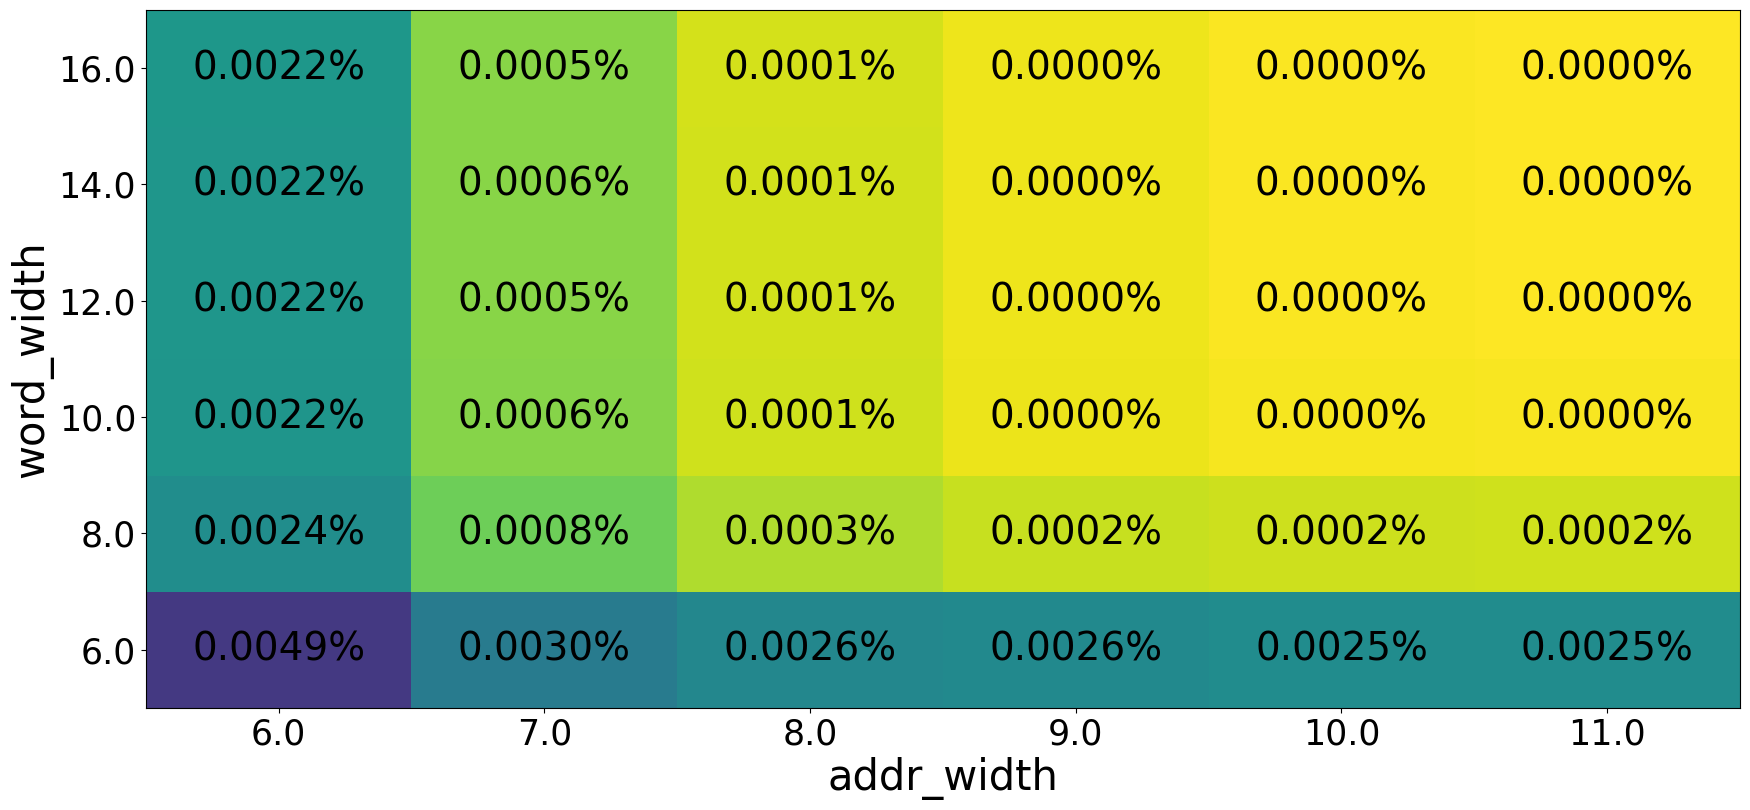
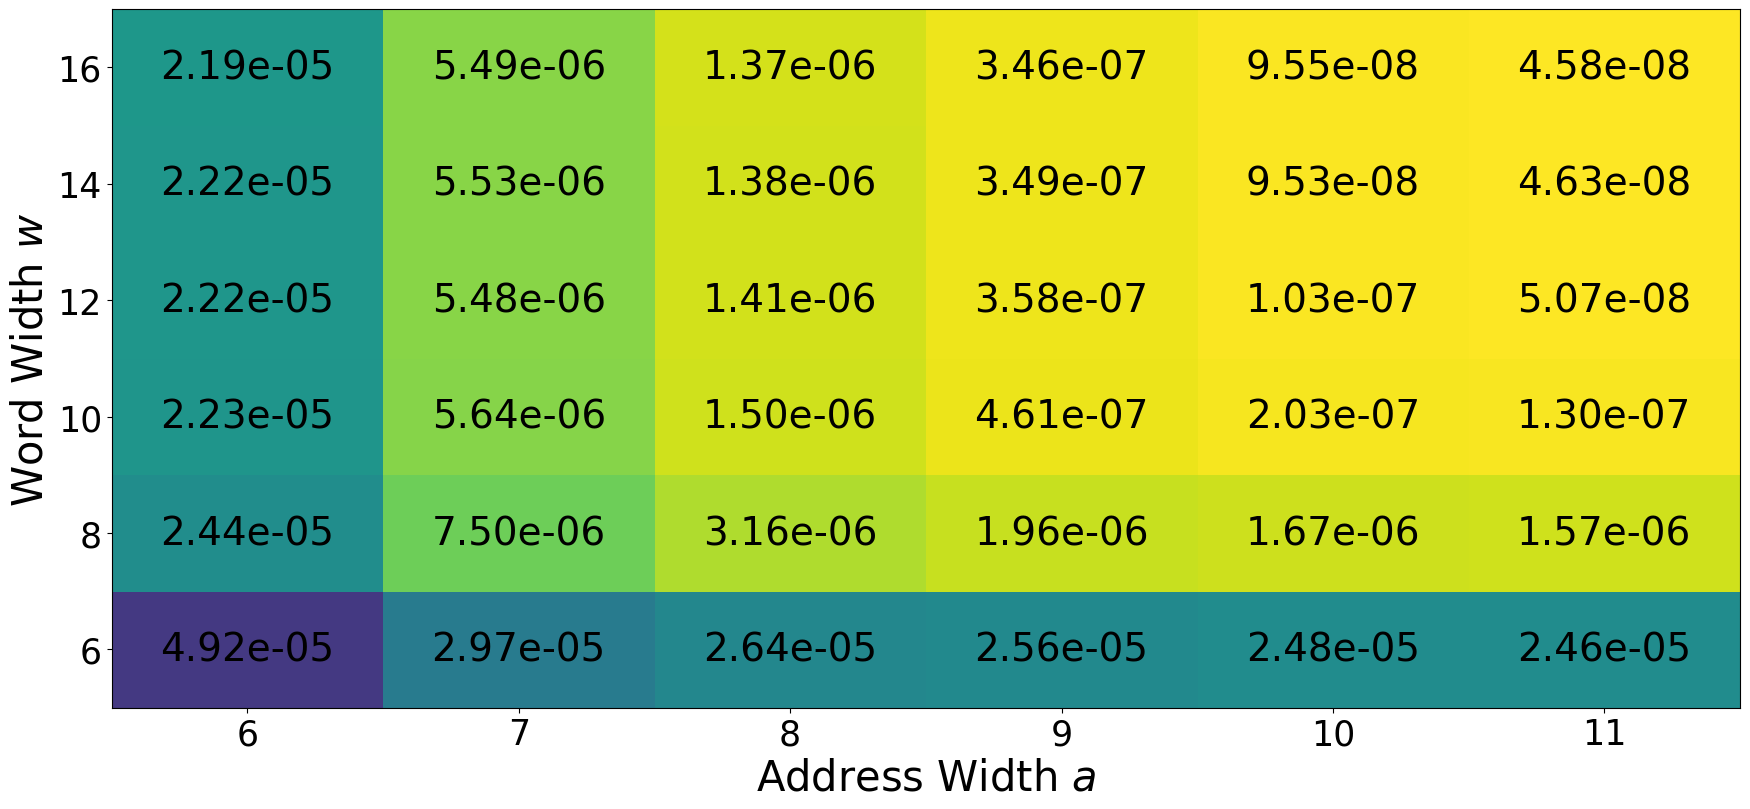
m

diff --git a/evaluation/rec/lookup/scripts/plot.py b/evaluation/rec/lookup/scripts/plot.py
@@ -80,8 +80,13 @@ def plot_heatmap(filepath, output_path=None, title=None, xlabel="x", ylabel="y",
 	ax.set_xticks(np.arange(len(x_vals)))
 	ax.set_yticks(np.arange(len(y_vals)))
 
-	ax.set_xticklabels([v for v in x_vals], fontsize=fontsize_ticks)
-	ax.set_yticklabels([v for v in y_vals], fontsize=fontsize_ticks)
+	# addr_width / word_width are whole numbers; render them as integers so the
+	# ticks read "6, 7, ..." rather than matplotlib's default float "6.0, 7.0".
+	def _tick(v):
+		return str(int(v)) if float(v).is_integer() else str(v)
+
+	ax.set_xticklabels([_tick(v) for v in x_vals], fontsize=fontsize_ticks)
+	ax.set_yticklabels([_tick(v) for v in y_vals], fontsize=fontsize_ticks)
 	ax.set_xlabel(xlabel, fontsize=fontsize_labels)
 	ax.set_ylabel(ylabel, fontsize=fontsize_labels)
 
@@ -130,8 +135,8 @@ IMAGES_DIR = PROJECT_ROOT / "images"
 #                   -> LUT is column 8
 #   accuracy.csv  : num_newton_steps, addr_width, word_width, C, RMSRE, max_rel_error
 #                   -> RMSRE is column 4
-XLABEL = "addr_width"
-YLABEL = "word_width"
+XLABEL = "Address Width $a$"
+YLABEL = "Word Width $w$"
 X_COL_IDX = 1
 Y_COL_IDX = 2
 VALUE_IDX = 3
@@ -150,8 +155,8 @@ if __name__ == '__main__':
 	# Plot resources: LUT usage over the (addr_width, word_width) grid, one figure
 	# per num_newton_steps so the three sweeps present in resources.csv do not
 	# overwrite each other in the same cells.
-	XLABEL = "addr_width"
-	YLABEL = "word_width"
+	XLABEL = "Address Width $a$"
+	YLABEL = "Word Width $w$"
 	X_COL_IDX = 1			# addr_width
 	Y_COL_IDX = 2			# word_width
 	VALUE_IDX = 8			# LUT column (resources.csv 13-column schema)
@@ -170,15 +175,15 @@ if __name__ == '__main__':
 
 	# Plot accuracy: RMSRE over the (addr_width, word_width) grid, one figure per
 	# num_newton_steps so the three sweeps present in accuracy.csv do not
-	# overwrite each other in the same cells. Labels show RMSRE as a percentage
-	# with 4 decimals.
-	XLABEL = "addr_width"
-	YLABEL = "word_width"
+	# overwrite each other in the same cells. Labels show the raw RMSRE in
+	# scientific notation with 3 significant figures.
+	XLABEL = "Address Width $a$"
+	YLABEL = "Word Width $w$"
 	X_COL_IDX = 1			# addr_width
 	Y_COL_IDX = 2			# word_width
 	VALUE_IDX = 4			# RMSRE column (accuracy.csv, after the C column at idx 3)
-	VALUE_FACTOR = 100
-	DATATYPE = "percent"
+	VALUE_FACTOR = 1
+	DATATYPE = "sci"
 	FILTER_COL = 0			# num_newton_steps column
 	for FILTER_VAL in NEWTON_STEPS:
 		plot_heatmap(

diff --git a/evaluation/rsqrt/lookup/scripts/plot.py b/evaluation/rsqrt/lookup/scripts/plot.py
@@ -75,8 +75,13 @@ def plot_heatmap(filepath, output_path=None, title=None, xlabel="x", ylabel="y",
 	ax.set_xticks(np.arange(len(x_vals)))
 	ax.set_yticks(np.arange(len(y_vals)))
 
-	ax.set_xticklabels([v for v in x_vals], fontsize=fontsize_ticks)
-	ax.set_yticklabels([v for v in y_vals], fontsize=fontsize_ticks)
+	# addr_width / word_width are whole numbers; render them as integers so the
+	# ticks read "6, 7, ..." rather than matplotlib's default float "6.0, 7.0".
+	def _tick(v):
+		return str(int(v)) if float(v).is_integer() else str(v)
+
+	ax.set_xticklabels([_tick(v) for v in x_vals], fontsize=fontsize_ticks)
+	ax.set_yticklabels([_tick(v) for v in y_vals], fontsize=fontsize_ticks)
 	ax.set_xlabel(xlabel, fontsize=fontsize_labels)
 	ax.set_ylabel(ylabel, fontsize=fontsize_labels)
 
@@ -120,8 +125,8 @@ IMAGES_DIR = PROJECT_ROOT / "images"
 # Column layout of the CSVs consumed below (0-based indices):
 #   resources.csv : num_newton_steps, addr_width, word_width, REG, LUT, DSP, BRAM, URAM
 #   accuracy.csv  : num_newton_steps, addr_width, word_width, RMSRE, max_rel_error
-XLABEL = "addr_width"
-YLABEL = "word_width"
+XLABEL = "Address Width $a$"
+YLABEL = "Word Width $w$"
 X_COL_IDX = 1
 Y_COL_IDX = 2
 VALUE_IDX = 3
@@ -140,8 +145,8 @@ if __name__ == '__main__':
 	# Plot resources: LUT usage over the (addr_width, word_width) grid, one figure
 	# per num_newton_steps so the three sweeps present in resources.csv do not
 	# overwrite each other in the same cells.
-	XLABEL = "addr_width"
-	YLABEL = "word_width"
+	XLABEL = "Address Width $a$"
+	YLABEL = "Word Width $w$"
 	X_COL_IDX = 1			# addr_width
 	Y_COL_IDX = 2			# word_width
 	VALUE_IDX = 4			# LUT column
@@ -160,15 +165,15 @@ if __name__ == '__main__':
 
 	# Plot accuracy: RMSRE over the (addr_width, word_width) grid, one figure per
 	# num_newton_steps so the three sweeps present in accuracy.csv do not
-	# overwrite each other in the same cells. Labels show RMSRE as a percentage
-	# with 4 decimals.
-	XLABEL = "addr_width"
-	YLABEL = "word_width"
+	# overwrite each other in the same cells. Labels show the raw RMSRE in
+	# scientific notation with 3 significant figures.
+	XLABEL = "Address Width $a$"
+	YLABEL = "Word Width $w$"
 	X_COL_IDX = 1			# addr_width
 	Y_COL_IDX = 2			# word_width
 	VALUE_IDX = 3			# RMSRE column
-	VALUE_FACTOR = 100
-	DATATYPE = "percent"
+	VALUE_FACTOR = 1
+	DATATYPE = "sci"
 	FILTER_COL = 0			# num_newton_steps column
 	for FILTER_VAL in NEWTON_STEPS:
 		plot_heatmap(

diff --git a/evaluation/exp/lookup/scripts/plot.py b/evaluation/exp/lookup/scripts/plot.py
@@ -75,8 +75,13 @@ def plot_heatmap(filepath, output_path=None, title=None, xlabel="x", ylabel="y",
 	ax.set_xticks(np.arange(len(x_vals)))
 	ax.set_yticks(np.arange(len(y_vals)))
 
-	ax.set_xticklabels([v for v in x_vals], fontsize=fontsize_ticks)
-	ax.set_yticklabels([v for v in y_vals], fontsize=fontsize_ticks)
+	# addr_width / word_width are whole numbers; render them as integers so the
+	# ticks read "6, 7, ..." rather than matplotlib's default float "6.0, 7.0".
+	def _tick(v):
+		return str(int(v)) if float(v).is_integer() else str(v)
+
+	ax.set_xticklabels([_tick(v) for v in x_vals], fontsize=fontsize_ticks)
+	ax.set_yticklabels([_tick(v) for v in y_vals], fontsize=fontsize_ticks)
 	ax.set_xlabel(xlabel, fontsize=fontsize_labels)
 	ax.set_ylabel(ylabel, fontsize=fontsize_labels)
 
@@ -123,8 +128,8 @@ IMAGES_DIR = PROJECT_ROOT / "images"
 #   resources.csv : SIMD, addr_width, word_width, EXCLUDE_POS, clock_period, WNS,
 #                   Critical path timing, Max frequency, REG, LUT, DSP, BRAM, URAM
 #   accuracy.csv  : addr_width, word_width, RMSRE, max_rel_error
-XLABEL = "addr_width"
-YLABEL = "word_width"
+XLABEL = "Address Width $a$"
+YLABEL = "Word Width $w$"
 X_COL_IDX = 0
 Y_COL_IDX = 1
 VALUE_IDX = 2
@@ -140,8 +145,8 @@ if __name__ == '__main__':
 
 	# Plot resources: LUT usage over the (addr_width, word_width) grid.
 	# resources.csv columns: SIMD, addr_width(1), word_width(2), ..., LUT(9), ...
-	XLABEL = "addr_width"
-	YLABEL = "word_width"
+	XLABEL = "Address Width $a$"
+	YLABEL = "Word Width $w$"
 	X_COL_IDX = 1			# addr_width
 	Y_COL_IDX = 2			# word_width
 	VALUE_IDX = 9			# LUT column
@@ -157,16 +162,16 @@ if __name__ == '__main__':
 				cell_width=2.6
 			)
 
-	# Plot accuracy: RMSRE over the (addr_width, word_width) grid. Labels show
-	# RMSRE as a percentage with 4 decimals.
+	# Plot accuracy: RMSRE over the (addr_width, word_width) grid. Labels show the
+	# raw RMSRE in scientific notation with 3 significant figures.
 	# accuracy.csv columns: addr_width(0), word_width(1), RMSRE(2), max_rel_error(3)
-	XLABEL = "addr_width"
-	YLABEL = "word_width"
+	XLABEL = "Address Width $a$"
+	YLABEL = "Word Width $w$"
 	X_COL_IDX = 0			# addr_width
 	Y_COL_IDX = 1			# word_width
 	VALUE_IDX = 2			# RMSRE column
-	VALUE_FACTOR = 100
-	DATATYPE = "percent"
+	VALUE_FACTOR = 1
+	DATATYPE = "sci"
 	FILTER_COL = None
 	plot_heatmap(
 				filepath=DATA_DIR / "accuracy.csv",

diff --git a/evaluation/rec/lookup/scripts/plot_improvement.py b/evaluation/rec/lookup/scripts/plot_improvement.py
@@ -45,8 +45,8 @@ OUTPUT_PNG = IMAGES_DIR / "accuracy_newton_improvement.png"
 #   NUM_NEWTON_STEPS, ADDR_WIDTH, WORD_WIDTH, RMSRE_C2, RMSRE_OPT, C_OPT,
 #   RMSRE_IMPROVEMENT_PCT
 #   -> addr_width is column 1, word_width column 2, improvement column 6.
-XLABEL = "addr_width"
-YLABEL = "word_width"
+XLABEL = "Address Width $a$"
+YLABEL = "Word Width $w$"
 X_COL_IDX = 1           # addr_width
 Y_COL_IDX = 2           # word_width
 VALUE_IDX = 6           # RMSRE_IMPROVEMENT_PCT (already a percentage)
